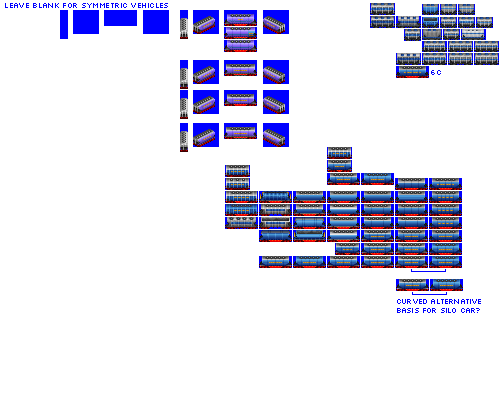
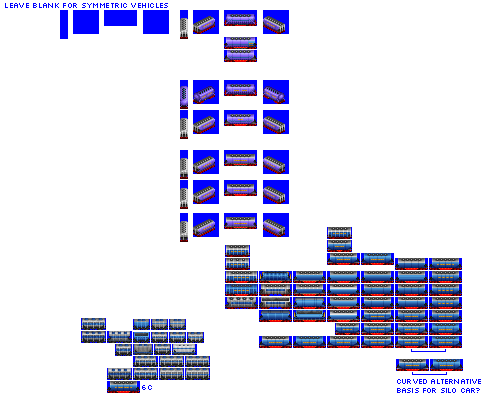
Change: WIP on more mineral covered hoppers

Changed region(s): [[0.36, 0.03, 0.96, 0.99], [0.72, 0.0, 1.0, 0.21], [0.15, 0.78, 0.42, 0.99]]

diff --git a/src/vehicles/pony/mineral_covered_hopper_cars_type_3_pony.py b/src/vehicles/pony/mineral_covered_hopper_cars_type_3_pony.py
@@ -1,0 +1,82 @@
+from train import CoveredHopperCarMineralConsistType3, FreightCar
+
+
+def main(roster_id, **kwargs):
+    # --------------- standard gauge ---------------------------------------------------------------
+    """
+    consist = CoveredHopperCarMineralConsistType3(
+        roster_id=roster_id,
+        roster_id_providing_module=kwargs["roster_id_providing_module"],
+        base_numeric_id=25990,
+        gen=2,
+        subtype="A",
+        sprites_complete=False,
+    )
+
+    consist.add_unit(type=FreightCar, chassis="2_axle_gapped_16px")
+
+    consist = CoveredHopperCarMineralConsistType3(
+        roster_id=roster_id,
+        roster_id_providing_module=kwargs["roster_id_providing_module"],
+        base_numeric_id=26000,
+        gen=3,
+        subtype="A",
+        sprites_complete=False,
+    )
+
+    consist.add_unit(type=FreightCar, chassis="2_axle_gapped_16px")
+    """
+    consist = CoveredHopperCarMineralConsistType3(
+        roster_id=roster_id,
+        roster_id_providing_module=kwargs["roster_id_providing_module"],
+        base_numeric_id=34840,
+        gen=4,
+        subtype="A",
+        sprites_complete=False,
+    )
+
+    consist.add_unit(type=FreightCar, chassis="2_axle_gapped_16px")
+
+    consist = CoveredHopperCarMineralConsistType3(
+        roster_id=roster_id,
+        roster_id_providing_module=kwargs["roster_id_providing_module"],
+        base_numeric_id=33820,
+        gen=4,
+        subtype="B",
+        sprites_complete=False,
+    )
+
+    consist.add_unit(type=FreightCar, chassis="2_axle_gapped_24px")
+
+    consist = CoveredHopperCarMineralConsistType3(
+        roster_id=roster_id,
+        roster_id_providing_module=kwargs["roster_id_providing_module"],
+        base_numeric_id=33030,
+        gen=5,
+        subtype="A",
+        sprites_complete=False,
+    )
+
+    consist.add_unit(type=FreightCar, chassis="2_axle_gapped_greebled_16px")
+
+    consist = CoveredHopperCarMineralConsistType3(
+        roster_id=roster_id,
+        roster_id_providing_module=kwargs["roster_id_providing_module"],
+        base_numeric_id=34850,
+        gen=5,
+        subtype="B",
+        sprites_complete=False,
+    )
+
+    consist.add_unit(type=FreightCar, chassis="2_axle_filled_greebled_24px")
+
+    consist = CoveredHopperCarMineralConsistType3(
+        roster_id=roster_id,
+        roster_id_providing_module=kwargs["roster_id_providing_module"],
+        base_numeric_id=36340,
+        gen=5,
+        subtype="C",
+        sprites_complete=False,
+    )
+
+    consist.add_unit(type=FreightCar, chassis="4_axle_filled_greebled_32px")

diff --git a/src/train.py b/src/train.py
@@ -4570,6 +4570,16 @@ class CoveredHopperCarMineralConsistType2(CoveredHopperCarMineralConsistBase):
         super().__init__(**kwargs)
 
 
+class CoveredHopperCarMineralConsistType3(CoveredHopperCarMineralConsistBase):
+    """
+    Covered hopper for mineral industry cargos, same refits as standard covered hopper, just a visual variant.
+    """
+
+    def __init__(self, **kwargs):
+        self.base_id = "mineral_covered_hopper_car_type_3"
+        super().__init__(**kwargs)
+
+
 class CoveredHopperCarMineralRandomisedConsist(
     RandomisedConsistMixin, CoveredHopperCarMineralConsistBase
 ):

diff --git a/src/rosters/pony.py b/src/rosters/pony.py
@@ -325,6 +325,7 @@ wagon_module_names_with_roster_ids = {
     "mineral_covered_hopper_cars_randomised": "pony",
     "mineral_covered_hopper_cars_type_1": "pony",
     "mineral_covered_hopper_cars_type_2": "pony",
+    "mineral_covered_hopper_cars_type_3": "pony",
     "open_cars": "pony",
     "open_cars_randomised": "pony",
     "panoramic_cars": "pony",

diff --git a/src/global_constants.py b/src/global_constants.py
@@ -123,6 +123,7 @@ wagon_module_name_stems = [
     "swing_roof_hopper_cars",
     "mineral_covered_hopper_cars_type_1",
     "mineral_covered_hopper_cars_type_2",
+    "mineral_covered_hopper_cars_type_3",
     "mineral_covered_hopper_cars_randomised",
     "chemical_covered_hopper_cars",
     "chemical_swing_roof_hopper_cars",
